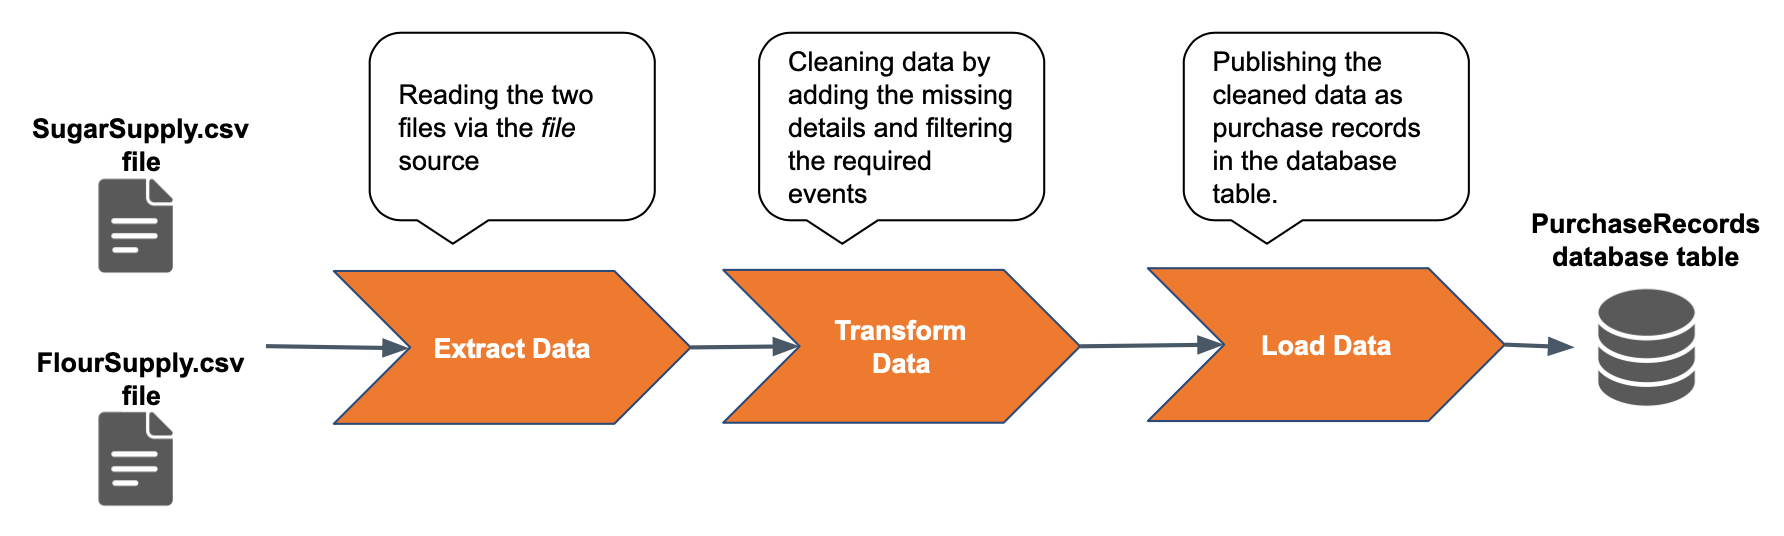
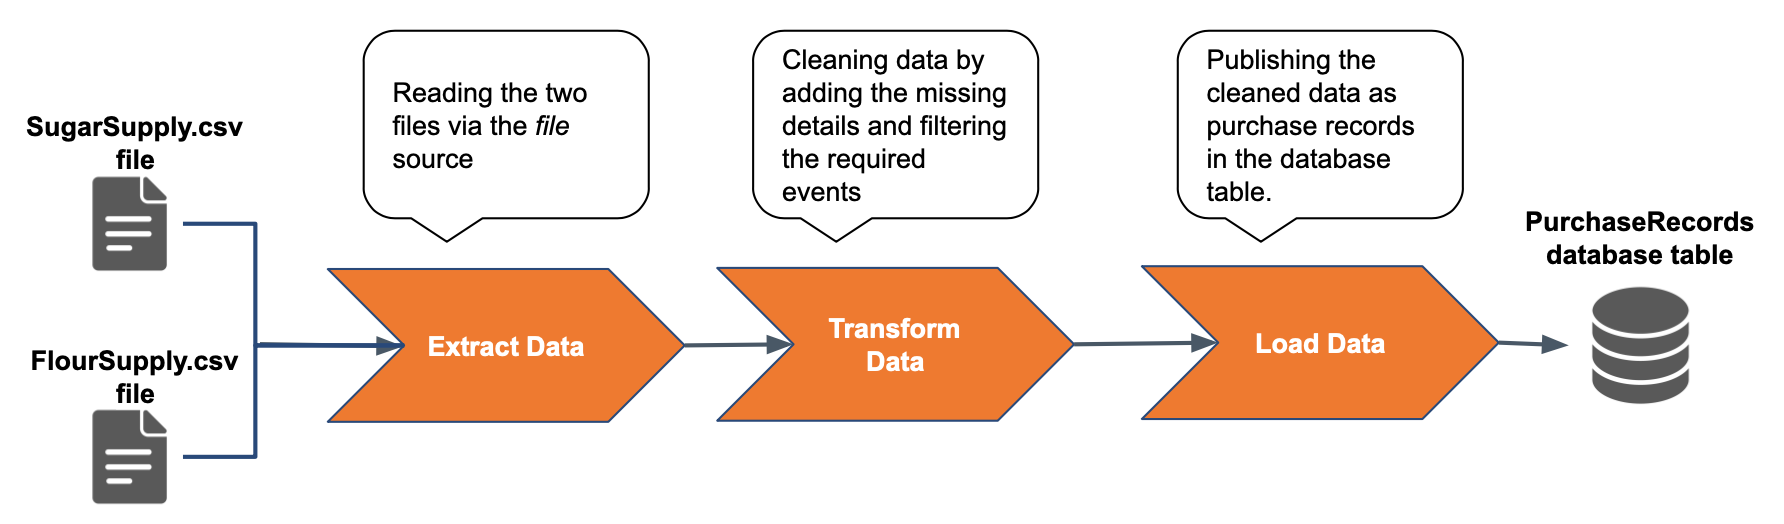
Update the ETL guide with diagrams that summarize the flows.

diff --git a/en/streaming-integrator/docs/guides/performing-etl-tasks.md b/en/streaming-integrator/docs/guides/performing-etl-tasks.md
@@ -198,7 +198,9 @@ update or insert into StockRecords
 When there are rapid changes and growths in business, it is necessary to scale ETL applications in an agile manner to support it. WSO2 Streaming Integrator supports the need for scalability via the Siddhi logic. 
 This can be observed in the previous examples where the `ManagingStocksApp` Siddhi application which only captured purchase records in the [Performing ETL in real time section](#performing-ETL-in-real-time) and with only two files and one database table (`SugarSupply.csv` file, `FlourSupply.csv` file and `PurchaseRecords` database table) in the ETL flow was scaled to perform stock updates by incorporating another file and a database (i.e., `MaterialDispatches.csv` file and `StockRecords` database table) to the ETL flow.
 
-You can further extend this Siddhi application to incorporate many more different sources from which more data can be extracted, as well as to incorporate many more destinations to which output can be loaded for further processing. For example, if the Sweet Factory starts purchasing another ingredient (e.g., honey), you can define another stream to consume from a new source (e.g., a new file named `HoneySupply.xml) as follows:
+![Extended ETL Flow](../images/performing-etl-operations/extended-etl-flow.png)
+
+When you extended the ETL flow to perform stock updates, it involved adding more ETL tasks to the flow. You can also scale your ETL applications without adding more ETL tasks. This is done by adding only more sources to extract data for the existing tasks or adding more destinations for the existing tasks to load the output. For example, if the Sweet Factory starts purchasing another ingredient (e.g., honey), you can define another stream to consume from a new source (e.g., a new file named `HoneySupply.xml) as follows:
 
 ```
 @source(type='file', mode='LINE',
@@ -217,9 +219,12 @@ select *
 update or insert into PurchaseRecords
     on PurchaseRecords.transNo == transNo;
 ```
+The following diagram depicts how the above changes scaled the ETL flow.
+
+![Adding a new source](/../imagesperforming-etl-operations/adding-a-new-source.png)
 
 !!! tip
-    As you scale your ETL operations, you may have all the related queries in a single application or create multiple Siddhi applications that contribute to the same ETL flow.
+    As you scale your ETL operations, you may have all the related queries in a single application or create multiple Siddhi applications that function as components of the same ETL flow.
        
 ## Multiple platforms for ETL application design
 
